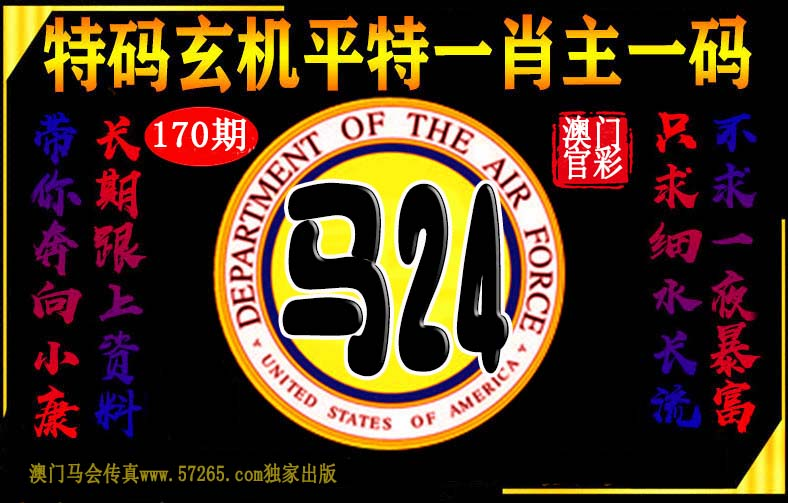
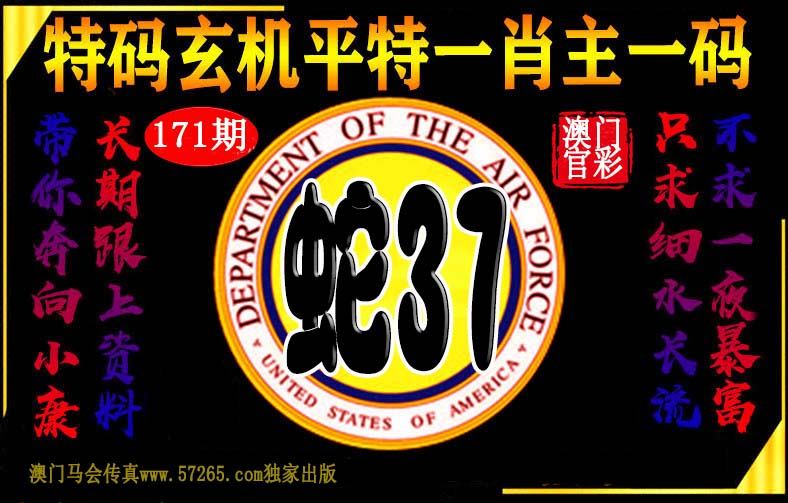
Update:  2025.06.20 12:20:30

Changed region(s): [[0.335, 0.328, 0.6701, 0.7753], [0.2437, 0.2386, 0.2741, 0.2982]]

diff --git a/Script/Src/xjw/2qpt.js b/Script/Src/xjw/2qpt.js
@@ -47,11 +47,22 @@ document.writeln("");
 
 
 
-
-
-
-
-
+document.writeln("	<!----开始---->    ");
+document.writeln("	<table border=\'1\' width=\'100%\' cellpadding=\'0\' height=\'83\' cellspacing=\'0\' bgcolor=\'#FFFFFF\' bordercolor=\'#D4D4D4\' style=\'border-collapse: collapse\'>");
+document.writeln("		<tr>");
+document.writeln("		<td  height=\'11\' align=\'center\' bgcolor=\'#FFFFFF\' width=\'10%\'>");
+document.writeln("		<b><font face=\'微软雅黑\'>171-173期</font></b></td>");
+document.writeln("		<td align=\'center\' bgcolor=\'#FFFFFF\' width=\'65%\' rowspan=\'3\'>");
+document.writeln("		<strong>");
+document.writeln("		<font face=\'微软雅黑\' size=\'5\' color=\'#FF0000\'>虎（04.28.40）</font></strong></td>");
+document.writeln("		<td  height=\'11\' align=\'center\' bgcolor=\'#FFFFFF\' width=\'10%\'>");
+document.writeln("		<font face=\'微软雅黑\'>000中</font></td>");
+document.writeln("		</tr>");
+document.writeln("");
+document.writeln("");
+document.writeln("		</table>");
+document.writeln("		");
+document.writeln("");
 
 
 
@@ -61,12 +72,12 @@ document.writeln("	<!----开始---->    ");
 document.writeln("	<table border=\'1\' width=\'100%\' cellpadding=\'0\' height=\'83\' cellspacing=\'0\' bgcolor=\'#FFFFFF\' bordercolor=\'#D4D4D4\' style=\'border-collapse: collapse\'>");
 document.writeln("		<tr>");
 document.writeln("		<td  height=\'11\' align=\'center\' bgcolor=\'#FFFFFF\' width=\'10%\'>");
-document.writeln("		<b><font face=\'微软雅黑\'>171-173期</font></b></td>");
+document.writeln("		<b><font face=\'微软雅黑\'>169-171期</font></b></td>");
 document.writeln("		<td align=\'center\' bgcolor=\'#FFFFFF\' width=\'65%\' rowspan=\'3\'>");
 document.writeln("		<strong>");
-document.writeln("		<font face=\'微软雅黑\' size=\'5\' color=\'#FF0000\'><span style='background-color: #FFFF00\'><span style='background-color: #FFFF00\'>龙</span></span>（<span style='background-color: #FFFF00\'><span style='background-color: #FFFF00\'><span style='background-color: #FFFF00\'><span style='background-color: #FFFF00\'>02.14.26</span>）</font></strong></td>");
+document.writeln("		<font face=\'微软雅黑\' size=\'5\' color=\'#FF0000\'>鸡（21.<span style='background-color: #FFFF00\'>33</span>.45）</font></strong></td>");
 document.writeln("		<td  height=\'11\' align=\'center\' bgcolor=\'#FFFFFF\' width=\'10%\'>");
-document.writeln("		<font face=\'微软雅黑\'>00中</font></td>");
+document.writeln("		<font face=\'微软雅黑\'>170中</font></td>");
 document.writeln("		</tr>");
 document.writeln("");
 document.writeln("");
@@ -80,15 +91,14 @@ document.writeln("");
 
 
 
-
 document.writeln("	<!----开始---->    ");
 document.writeln("	<table border=\'1\' width=\'100%\' cellpadding=\'0\' height=\'83\' cellspacing=\'0\' bgcolor=\'#FFFFFF\' bordercolor=\'#D4D4D4\' style=\'border-collapse: collapse\'>");
 document.writeln("		<tr>");
 document.writeln("		<td  height=\'11\' align=\'center\' bgcolor=\'#FFFFFF\' width=\'10%\'>");
-document.writeln("		<b><font face=\'微软雅黑\'>168-170期</font></b></td>");
+document.writeln("		<b><font face=\'微软雅黑\'>167-169期</font></b></td>");
 document.writeln("		<td align=\'center\' bgcolor=\'#FFFFFF\' width=\'65%\' rowspan=\'3\'>");
 document.writeln("		<strong>");
-document.writeln("		<font face=\'微软雅黑\' size=\'5\' color=\'#FF0000\'><span style='background-color: #FFFF00\'><span style='background-color: #FFFF00\'>鸡</span></span>（<span style='background-color: #FFFF00\'><span style='background-color: #FFFF00\'><span style='background-color: #FFFF00\'><span style='background-color: #FFFF00\'>09</span>.21.33</span>）</font></strong></td>");
+document.writeln("		<font face=\'微软雅黑\' size=\'5\' color=\'#FF0000\'>蛇（01.13.<span style='background-color: #FFFF00\'>25</span>）</font></strong></td>");
 document.writeln("		<td  height=\'11\' align=\'center\' bgcolor=\'#FFFFFF\' width=\'10%\'>");
 document.writeln("		<font face=\'微软雅黑\'>168中</font></td>");
 document.writeln("		</tr>");
@@ -102,16 +112,18 @@ document.writeln("");
 
 
 
+
+
 document.writeln("	<!----开始---->    ");
 document.writeln("	<table border=\'1\' width=\'100%\' cellpadding=\'0\' height=\'83\' cellspacing=\'0\' bgcolor=\'#FFFFFF\' bordercolor=\'#D4D4D4\' style=\'border-collapse: collapse\'>");
 document.writeln("		<tr>");
 document.writeln("		<td  height=\'11\' align=\'center\' bgcolor=\'#FFFFFF\' width=\'10%\'>");
-document.writeln("		<b><font face=\'微软雅黑\'>162-164期</font></b></td>");
+document.writeln("		<b><font face=\'微软雅黑\'>167-169期</font></b></td>");
 document.writeln("		<td align=\'center\' bgcolor=\'#FFFFFF\' width=\'65%\' rowspan=\'3\'>");
 document.writeln("		<strong>");
-document.writeln("		<font face=\'微软雅黑\' size=\'5\' color=\'#FF0000\'><span style='background-color: #FFFF00\'><span style='background-color: #FFFF00\'>马</span></span>（<span style='background-color: #FFFF00\'><span style='background-color: #FFFF00\'><span style='background-color: #FFFF00\'>12</span>.24.36</span>）</font></strong></td>");
+document.writeln("		<font face=\'微软雅黑\' size=\'5\' color=\'#FF0000\'>鼠（<span style='background-color: #FFFF00\'>06</span>.18.<span style='background-color: #FFFF00\'>30</span>）</font></strong></td>");
 document.writeln("		<td  height=\'11\' align=\'center\' bgcolor=\'#FFFFFF\' width=\'10%\'>");
-document.writeln("		<font face=\'微软雅黑\'>162中</font></td>");
+document.writeln("		<font face=\'微软雅黑\'>167中</font></td>");
 document.writeln("		</tr>");
 document.writeln("");
 document.writeln("");
@@ -122,14 +134,42 @@ document.writeln("");
 
 
 
+
+
+
+
+
 document.writeln("	<!----开始---->    ");
 document.writeln("	<table border=\'1\' width=\'100%\' cellpadding=\'0\' height=\'83\' cellspacing=\'0\' bgcolor=\'#FFFFFF\' bordercolor=\'#D4D4D4\' style=\'border-collapse: collapse\'>");
 document.writeln("		<tr>");
 document.writeln("		<td  height=\'11\' align=\'center\' bgcolor=\'#FFFFFF\' width=\'10%\'>");
-document.writeln("		<b><font face=\'微软雅黑\'>160-162期</font></b></td>");
+document.writeln("		<b><font face=\'微软雅黑\'>162-164期</font></b></td>");
 document.writeln("		<td align=\'center\' bgcolor=\'#FFFFFF\' width=\'65%\' rowspan=\'3\'>");
 document.writeln("		<strong>");
-document.writeln("		<font face=\'微软雅黑\' size=\'5\' color=\'#FF0000\'><span style='background-color: #FFFF00\'><span style='background-color: #FFFF00\'>蛇</span></span>（<span style='background-color: #FFFF00\'><span style='background-color: #FFFF00\'>01.13.25</span>）</font></strong></td>");
+document.writeln("		<font face=\'微软雅黑\' size=\'5\' color=\'#FF0000\'>牛（05.17.<span style='background-color: #FFFF00\'>29</span>）</font></strong></td>");
+document.writeln("		<td  height=\'11\' align=\'center\' bgcolor=\'#FFFFFF\' width=\'10%\'>");
+document.writeln("		<font face=\'微软雅黑\'>163中</font></td>");
+document.writeln("		</tr>");
+document.writeln("");
+document.writeln("");
+document.writeln("		</table>");
+document.writeln("		");
+document.writeln("");
+
+
+
+
+
+
+
+document.writeln("	<!----开始---->    ");
+document.writeln("	<table border=\'1\' width=\'100%\' cellpadding=\'0\' height=\'83\' cellspacing=\'0\' bgcolor=\'#FFFFFF\' bordercolor=\'#D4D4D4\' style=\'border-collapse: collapse\'>");
+document.writeln("		<tr>");
+document.writeln("		<td  height=\'11\' align=\'center\' bgcolor=\'#FFFFFF\' width=\'10%\'>");
+document.writeln("		<b><font face=\'微软雅黑\'>159-161期</font></b></td>");
+document.writeln("		<td align=\'center\' bgcolor=\'#FFFFFF\' width=\'65%\' rowspan=\'3\'>");
+document.writeln("		<strong>");
+document.writeln("		<font face=\'微软雅黑\' size=\'5\' color=\'#FF0000\'>虎（04.<span style='background-color: #FFFF00\'>16</span>.28）</font></strong></td>");
 document.writeln("		<td  height=\'11\' align=\'center\' bgcolor=\'#FFFFFF\' width=\'10%\'>");
 document.writeln("		<font face=\'微软雅黑\'>161中</font></td>");
 document.writeln("		</tr>");
@@ -141,6 +181,9 @@ document.writeln("");
 
 
 
+
+
+
 document.writeln("	<!----开始---->    ");
 document.writeln("	<table border=\'1\' width=\'100%\' cellpadding=\'0\' height=\'83\' cellspacing=\'0\' bgcolor=\'#FFFFFF\' bordercolor=\'#D4D4D4\' style=\'border-collapse: collapse\'>");
 document.writeln("		<tr>");
@@ -148,9 +191,30 @@ document.writeln("		<td  height=\'11\' align=\'center\' bgcolor=\'#FFFFFF\' widt
 document.writeln("		<b><font face=\'微软雅黑\'>157-159期</font></b></td>");
 document.writeln("		<td align=\'center\' bgcolor=\'#FFFFFF\' width=\'65%\' rowspan=\'3\'>");
 document.writeln("		<strong>");
-document.writeln("		<font face=\'微软雅黑\' size=\'5\' color=\'#FF0000\'><span style='background-color: #FFFF00\'>马</span>（<span style='background-color: #FFFF00\'><span style='background-color: #FFFF00\'>12</span>.36.48</span>）</font></strong></td>");
+document.writeln("		<font face=\'微软雅黑\' size=\'5\' color=\'#FF0000\'>鸡（09.<span style='background-color: #FFFF00\'>21</span>.45）</font></strong></td>");
 document.writeln("		<td  height=\'11\' align=\'center\' bgcolor=\'#FFFFFF\' width=\'10%\'>");
-document.writeln("		<font face=\'微软雅黑\'>157中</font></td>");
+document.writeln("		<font face=\'微软雅黑\'>158中</font></td>");
+document.writeln("		</tr>");
+document.writeln("");
+document.writeln("");
+document.writeln("		</table>");
+document.writeln("		");
+document.writeln("");
+
+
+
+
+
+document.writeln("	<!----开始---->    ");
+document.writeln("	<table border=\'1\' width=\'100%\' cellpadding=\'0\' height=\'83\' cellspacing=\'0\' bgcolor=\'#FFFFFF\' bordercolor=\'#D4D4D4\' style=\'border-collapse: collapse\'>");
+document.writeln("		<tr>");
+document.writeln("		<td  height=\'11\' align=\'center\' bgcolor=\'#FFFFFF\' width=\'10%\'>");
+document.writeln("		<b><font face=\'微软雅黑\'>156-158期</font></b></td>");
+document.writeln("		<td align=\'center\' bgcolor=\'#FFFFFF\' width=\'65%\' rowspan=\'3\'>");
+document.writeln("		<strong>");
+document.writeln("		<font face=\'微软雅黑\' size=\'5\' color=\'#FF0000\'>虎（04.<span style='background-color: #FFFF00\'>28</span>.40）</font></strong></td>");
+document.writeln("		<td  height=\'11\' align=\'center\' bgcolor=\'#FFFFFF\' width=\'10%\'>");
+document.writeln("		<font face=\'微软雅黑\'>156中</font></td>");
 document.writeln("		</tr>");
 document.writeln("");
 document.writeln("");
@@ -167,10 +231,10 @@ document.writeln("	<!----开始---->    ");
 document.writeln("	<table border=\'1\' width=\'100%\' cellpadding=\'0\' height=\'83\' cellspacing=\'0\' bgcolor=\'#FFFFFF\' bordercolor=\'#D4D4D4\' style=\'border-collapse: collapse\'>");
 document.writeln("		<tr>");
 document.writeln("		<td  height=\'11\' align=\'center\' bgcolor=\'#FFFFFF\' width=\'10%\'>");
-document.writeln("		<b><font face=\'微软雅黑\'>155-157期</font></b></td>");
+document.writeln("		<b><font face=\'微软雅黑\'>154-156期</font></b></td>");
 document.writeln("		<td align=\'center\' bgcolor=\'#FFFFFF\' width=\'65%\' rowspan=\'3\'>");
 document.writeln("		<strong>");
-document.writeln("		<font face=\'微软雅黑\' size=\'5\' color=\'#FF0000\'><span style='background-color: #FFFF00\'>蛇</span>（<span style='background-color: #FFFF00\'>01.13.25</span>）</font></strong></td>");
+document.writeln("		<font face=\'微软雅黑\' size=\'5\' color=\'#FF0000\'>狗（08.<span style='background-color: #FFFF00\'>20</span>.32）</font></strong></td>");
 document.writeln("		<td  height=\'11\' align=\'center\' bgcolor=\'#FFFFFF\' width=\'10%\'>");
 document.writeln("		<font face=\'微软雅黑\'>155中</font></td>");
 document.writeln("		</tr>");
@@ -183,6 +247,10 @@ document.writeln("");
 
 
 
+
+
+
+
 document.writeln("	<!----开始---->    ");
 document.writeln("	<table border=\'1\' width=\'100%\' cellpadding=\'0\' height=\'83\' cellspacing=\'0\' bgcolor=\'#FFFFFF\' bordercolor=\'#D4D4D4\' style=\'border-collapse: collapse\'>");
 document.writeln("		<tr>");
@@ -190,7 +258,7 @@ document.writeln("		<td  height=\'11\' align=\'center\' bgcolor=\'#FFFFFF\' widt
 document.writeln("		<b><font face=\'微软雅黑\'>152-154期</font></b></td>");
 document.writeln("		<td align=\'center\' bgcolor=\'#FFFFFF\' width=\'65%\' rowspan=\'3\'>");
 document.writeln("		<strong>");
-document.writeln("		<font face=\'微软雅黑\' size=\'5\' color=\'#FF0000\'>马（<span style='background-color: #FFFF00\'>12</span>.24.36</span>）</font></strong></td>");
+document.writeln("		<font face=\'微软雅黑\' size=\'5\' color=\'#FF0000\'>鼠（06.18.<span style='background-color: #FFFF00\'>42</span>）</font></strong></td>");
 document.writeln("		<td  height=\'11\' align=\'center\' bgcolor=\'#FFFFFF\' width=\'10%\'>");
 document.writeln("		<font face=\'微软雅黑\'>152中</font></td>");
 document.writeln("		</tr>");
@@ -203,22 +271,53 @@ document.writeln("");
 
 
 
+
+
+
 document.writeln("	<!----开始---->    ");
 document.writeln("	<table border=\'1\' width=\'100%\' cellpadding=\'0\' height=\'83\' cellspacing=\'0\' bgcolor=\'#FFFFFF\' bordercolor=\'#D4D4D4\' style=\'border-collapse: collapse\'>");
 document.writeln("		<tr>");
 document.writeln("		<td  height=\'11\' align=\'center\' bgcolor=\'#FFFFFF\' width=\'10%\'>");
-document.writeln("		<b><font face=\'微软雅黑\'>149-151期</font></b></td>");
+document.writeln("		<b><font face=\'微软雅黑\'>151-153期</font></b></td>");
 document.writeln("		<td align=\'center\' bgcolor=\'#FFFFFF\' width=\'65%\' rowspan=\'3\'>");
 document.writeln("		<strong>");
-document.writeln("		<font face=\'微软雅黑\' size=\'5\' color=\'#FF0000\'>蛇（01.13.<span style='background-color: #FFFF00\'>25</span>）</font></strong></td>");
+document.writeln("		<font face=\'微软雅黑\' size=\'5\' color=\'#FF0000\'>龙（<span style='background-color: #FFFF00\'>02.14.<span style='background-color: #FFFF00\'>26</span>）</font></strong></td>");
 document.writeln("		<td  height=\'11\' align=\'center\' bgcolor=\'#FFFFFF\' width=\'10%\'>");
-document.writeln("		<font face=\'微软雅黑\'>149中</font></td>");
+document.writeln("		<font face=\'微软雅黑\'>151中</font></td>");
 document.writeln("		</tr>");
 document.writeln("");
 document.writeln("");
 document.writeln("		</table>");
 document.writeln("		");
 document.writeln("");
+
+
+
+
+
+document.writeln("	<!----开始---->    ");
+document.writeln("	<table border=\'1\' width=\'100%\' cellpadding=\'0\' height=\'83\' cellspacing=\'0\' bgcolor=\'#FFFFFF\' bordercolor=\'#D4D4D4\' style=\'border-collapse: collapse\'>");
+document.writeln("		<tr>");
+document.writeln("		<td  height=\'11\' align=\'center\' bgcolor=\'#FFFFFF\' width=\'10%\'>");
+document.writeln("		<b><font face=\'微软雅黑\'>150-152期</font></b></td>");
+document.writeln("		<td align=\'center\' bgcolor=\'#FFFFFF\' width=\'65%\' rowspan=\'3\'>");
+document.writeln("		<strong>");
+document.writeln("		<font face=\'微软雅黑\' size=\'5\' color=\'#FF0000\'>马（<span style='background-color: #FFFF00\'>12.24</span>.36）</font></strong></td>");
+document.writeln("		<td  height=\'11\' align=\'center\' bgcolor=\'#FFFFFF\' width=\'10%\'>");
+document.writeln("		<font face=\'微软雅黑\'>150中</font></td>");
+document.writeln("		</tr>");
+document.writeln("");
+document.writeln("");
+document.writeln("		</table>");
+document.writeln("		");
+document.writeln("");
+
+
+
+
+
+
+
 
 
 document.writeln("	<!----开始---->    ");
@@ -228,7 +327,7 @@ document.writeln("		<td  height=\'11\' align=\'center\' bgcolor=\'#FFFFFF\' widt
 document.writeln("		<b><font face=\'微软雅黑\'>146-148期</font></b></td>");
 document.writeln("		<td align=\'center\' bgcolor=\'#FFFFFF\' width=\'65%\' rowspan=\'3\'>");
 document.writeln("		<strong>");
-document.writeln("		<font face=\'微软雅黑\' size=\'5\' color=\'#FF0000\'>羊（<span style='background-color: #FFFF00\'>11</span>.23.35）</font></strong></td>");
+document.writeln("		<font face=\'微软雅黑\' size=\'5\' color=\'#FF0000\'>龙（02.<span style='background-color: #FFFF00\'>14</span>.26）</font></strong></td>");
 document.writeln("		<td  height=\'11\' align=\'center\' bgcolor=\'#FFFFFF\' width=\'10%\'>");
 document.writeln("		<font face=\'微软雅黑\'>146中</font></td>");
 document.writeln("		</tr>");
@@ -248,17 +347,16 @@ document.writeln("");
 
 
 
-
 document.writeln("	<!----开始---->    ");
 document.writeln("	<table border=\'1\' width=\'100%\' cellpadding=\'0\' height=\'83\' cellspacing=\'0\' bgcolor=\'#FFFFFF\' bordercolor=\'#D4D4D4\' style=\'border-collapse: collapse\'>");
 document.writeln("		<tr>");
 document.writeln("		<td  height=\'11\' align=\'center\' bgcolor=\'#FFFFFF\' width=\'10%\'>");
-document.writeln("		<b><font face=\'微软雅黑\'>143-145期</font></b></td>");
+document.writeln("		<b><font face=\'微软雅黑\'>141-143期</font></b></td>");
 document.writeln("		<td align=\'center\' bgcolor=\'#FFFFFF\' width=\'65%\' rowspan=\'3\'>");
 document.writeln("		<strong>");
-document.writeln("		<font face=\'微软雅黑\' size=\'5\' color=\'#FF0000\'>蛇（01.<span style='background-color: #FFFF00\'>25</span>.37）</font></strong></td>");
+document.writeln("		<font face=\'微软雅黑\' size=\'5\' color=\'#FF0000\'><span style='background-color: #FFFF00\'>牛</span>（01.13.25）</font></strong></td>");
 document.writeln("		<td  height=\'11\' align=\'center\' bgcolor=\'#FFFFFF\' width=\'10%\'>");
-document.writeln("		<font face=\'微软雅黑\'>144中</font></td>");
+document.writeln("		<font face=\'微软雅黑\'>142中</font></td>");
 document.writeln("		</tr>");
 document.writeln("");
 document.writeln("");
@@ -270,22 +368,46 @@ document.writeln("");
 
 
 
+
 document.writeln("	<!----开始---->    ");
 document.writeln("	<table border=\'1\' width=\'100%\' cellpadding=\'0\' height=\'83\' cellspacing=\'0\' bgcolor=\'#FFFFFF\' bordercolor=\'#D4D4D4\' style=\'border-collapse: collapse\'>");
 document.writeln("		<tr>");
 document.writeln("		<td  height=\'11\' align=\'center\' bgcolor=\'#FFFFFF\' width=\'10%\'>");
-document.writeln("		<b><font face=\'微软雅黑\'>137-139期</font></b></td>");
+document.writeln("		<b><font face=\'微软雅黑\'>140-142期</font></b></td>");
 document.writeln("		<td align=\'center\' bgcolor=\'#FFFFFF\' width=\'65%\' rowspan=\'3\'>");
 document.writeln("		<strong>");
-document.writeln("		<font face=\'微软雅黑\' size=\'5\' color=\'#FF0000\'>鼠（06.18.<span style='background-color: #FFFF00\'>30</span>）</font></strong></td>");
+document.writeln("		<font face=\'微软雅黑\' size=\'5\' color=\'#FF0000\'><span style='background-color: #FFFF00\'>牛</span>（05.17.29）</font></strong></td>");
 document.writeln("		<td  height=\'11\' align=\'center\' bgcolor=\'#FFFFFF\' width=\'10%\'>");
-document.writeln("		<font face=\'微软雅黑\'>139中</font></td>");
+document.writeln("		<font face=\'微软雅黑\'>140中</font></td>");
 document.writeln("		</tr>");
 document.writeln("");
 document.writeln("");
 document.writeln("		</table>");
 document.writeln("		");
 document.writeln("");
+
+
+
+
+
+
+document.writeln("	<!----开始---->    ");
+document.writeln("	<table border=\'1\' width=\'100%\' cellpadding=\'0\' height=\'83\' cellspacing=\'0\' bgcolor=\'#FFFFFF\' bordercolor=\'#D4D4D4\' style=\'border-collapse: collapse\'>");
+document.writeln("		<tr>");
+document.writeln("		<td  height=\'11\' align=\'center\' bgcolor=\'#FFFFFF\' width=\'10%\'>");
+document.writeln("		<b><font face=\'微软雅黑\'>134-136期</font></b></td>");
+document.writeln("		<td align=\'center\' bgcolor=\'#FFFFFF\' width=\'65%\' rowspan=\'3\'>");
+document.writeln("		<strong>");
+document.writeln("		<font face=\'微软雅黑\' size=\'5\' color=\'#FF0000\'>鸡（<span style='background-color: #FFFF00\'>09</span>.21.45）</font></strong></td>");
+document.writeln("		<td  height=\'11\' align=\'center\' bgcolor=\'#FFFFFF\' width=\'10%\'>");
+document.writeln("		<font face=\'微软雅黑\'>136中</font></td>");
+document.writeln("		</tr>");
+document.writeln("");
+document.writeln("");
+document.writeln("		</table>");
+document.writeln("		");
+document.writeln("");
+
 
 
 
